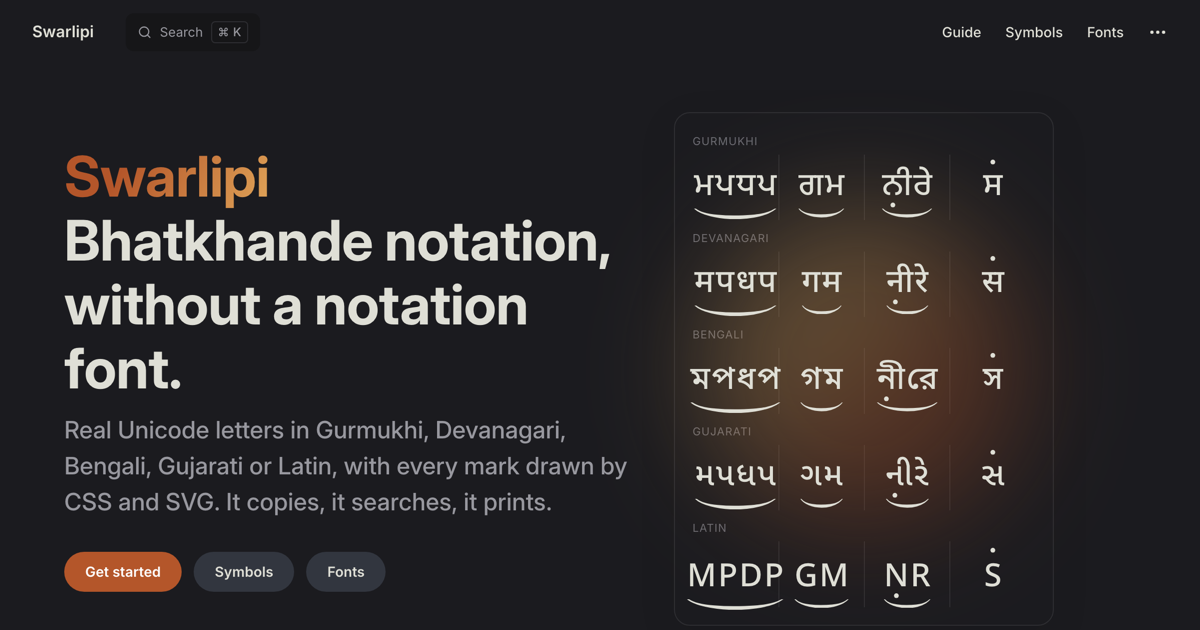
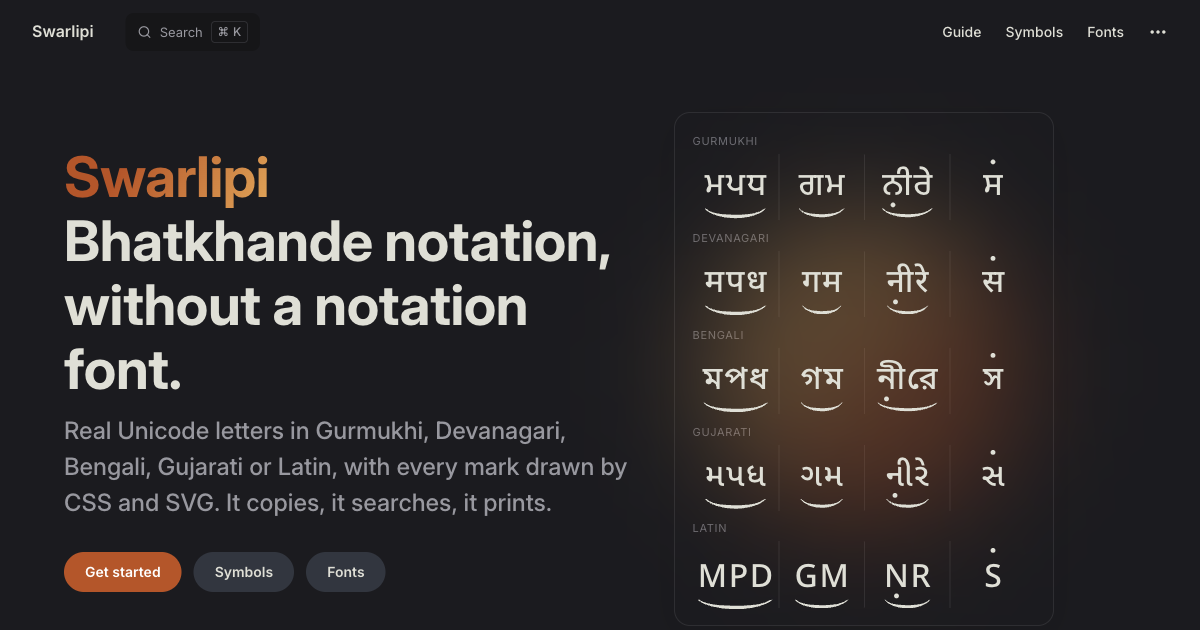
fix(swarlipi-docs): keep the hero card clear of the heading on mobile
The home hero slot holds a card that flows, but VitePress sizes that stage
for an absolutely positioned image: below 960px it is a fixed 320px square
with a -76px top margin, so the 514px card slid under the navbar and over
the heading. Size the stage to its content instead.

Two things came out of the same measurement:

- The page scrolled sideways at 375px (429 vs 375). The script pill is five
  names wide and cannot shrink, so it stretched the playground's grid track
  and pushed every sibling past the viewport. It wraps now — scrolling the
  pill would hide one of the five scripts behind an edge with no affordance.
  Shared with SheetControls, so the notation pages get the same wrap.
- Side by side the image column is the leftover third and only reaches the
  card's 380px above ~1264px, so between 960 and ~1077px the column hung off
  the right of the viewport as a phantom scrollbar. The card is fluid, so
  the column may shrink.

The beats were pinned at 2rem at every card width, which overflowed their
quarter of the card even at 380px and collided outright on a small phone.
They scale with the card now, and the opener is a tigun (3) rather than a
chaugun (4): three Latin caps fit 2rem at the full width, four never did.

og-image.png is a screenshot of this hero, so it is regenerated.

diff --git a/docs/.vitepress/theme/custom.css b/docs/.vitepress/theme/custom.css
@@ -21,6 +21,29 @@
   --vp-c-brand-soft: rgba(224, 149, 95, 0.16);
 }
 
+/* The home hero slot holds a card that flows, not the absolutely positioned
+   image VitePress sizes its stage for: below 960px that stage is a fixed
+   320px square with a -76px top margin, so a 514px card slid under the navbar
+   and over the heading. Size the stage to its content instead. */
+@media (max-width: 959px) {
+  .VPHero .image {
+    margin: 0 0 2rem;
+  }
+  .VPHero .image-container {
+    width: auto;
+    height: auto;
+  }
+}
+
+/* Side by side, the image column is the leftover third and only reaches the
+   card's 380px above ~1264px. Without this the column kept a 380px floor and
+   hung off the right of the viewport; the card is fluid, so let it shrink. */
+@media (min-width: 960px) {
+  .VPHero .image {
+    min-width: 0;
+  }
+}
+
 /* Notation demos share one visual language across the site. */
 .sw-card {
   border: 1px solid var(--vp-c-divider);
@@ -50,6 +73,11 @@
 /* Segmented control + inputs used by the sheet and the playground. */
 .sw-seg {
   display: inline-flex;
+  /* Five script names do not fit a phone in one row, and scrolling would hide
+     one of the five behind an edge with no affordance. */
+  flex-wrap: wrap;
+  justify-content: center;
+  max-width: 100%;
   padding: 3px;
   border-radius: 999px;
   background: var(--vp-c-bg-mute);

diff --git a/docs/.vitepress/theme/components/HeroSample.vue b/docs/.vitepress/theme/components/HeroSample.vue
@@ -3,7 +3,7 @@ import { SCRIPTS } from '../state';
 import Swara from './Swara.vue';
 
 /** A phrase of four real beats, once per script. */
-const BEATS = ['$mpdp', '@gm', '@nlr', 'su'];
+const BEATS = ['#mpd', '@gm', '@nlr', 'su'];
 </script>
 
 <template>
@@ -12,7 +12,7 @@ const BEATS = ['$mpdp', '@gm', '@nlr', 'su'];
       <span class="sw-label">{{ s.label }}</span>
       <div class="sw-hero-beats">
         <span v-for="(b, i) in BEATS" :key="i" class="sw-hero-beat">
-          <Swara :notes="b" :lang="s.id" size="2rem" />
+          <Swara :notes="b" :lang="s.id" size="clamp(1rem, 9.5cqi, 2rem)" />
         </span>
       </div>
     </div>
@@ -23,8 +23,14 @@ const BEATS = ['$mpdp', '@gm', '@nlr', 'su'];
 .sw-hero {
   display: grid;
   gap: 0.35rem;
+  /* The card is the size container the beats scale against: the widest beat
+     (three Latin caps) has to fit its quarter of the card, and a fixed 2rem
+     did not, at any width. The tigun opener is what lets 2rem stand as the
+     ceiling — a four-slot one caps the card's own width at 25.7px. */
+  container-type: inline-size;
   width: 380px;
   max-width: 100%;
+  margin-inline: auto;
   padding: 1rem 1.1rem 1.1rem;
   border: 1px solid var(--vp-c-divider);
   border-radius: 16px;
